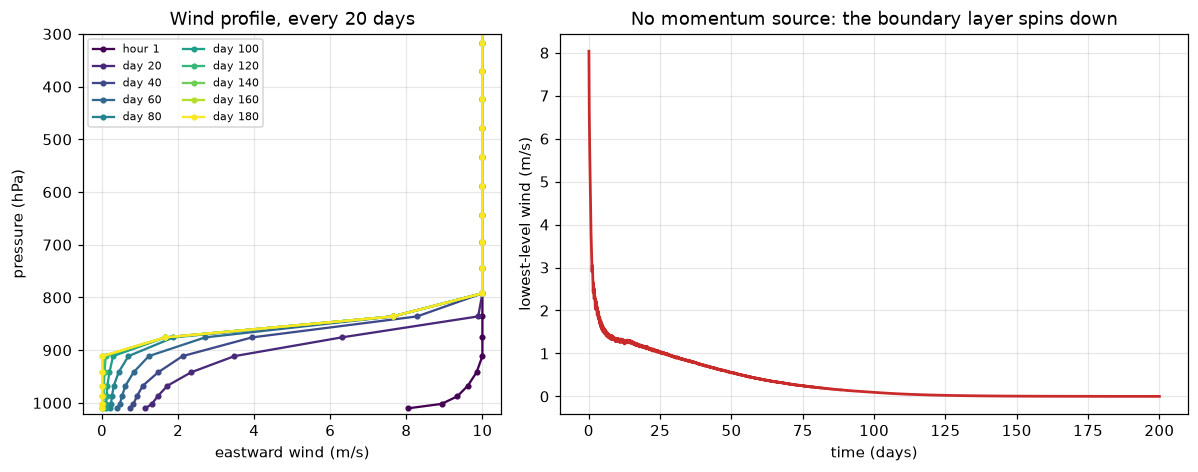
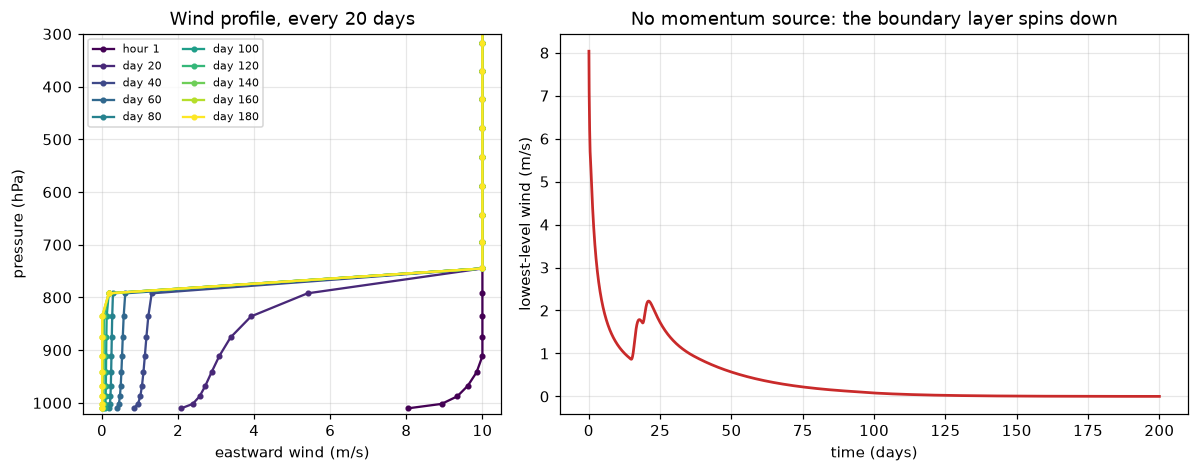
docs(tour): page 8 re-measured with the dry-static-energy boundary layer
The boundary layer now holds a steady 2.5 km depth, so the flux no longer
saw-tooths. Jump 15.15 -> 5.95 K, flux 30.3 W/m^2 at 5 m/s; knob table,
spin-down and exercise numbers re-measured.

Claude-Session: https://claude.ai/code/session_01MZXmxdJ9JP4hWH85RXmnPw

diff --git a/tests/test_modelling_tour.py b/tests/test_modelling_tour.py
@@ -1297,9 +1297,9 @@ PAGE8_DT = dict(hours=1)
 # means: 20.0, 34.7, 51.2 W/m^2 and 9.33, 7.47, 6.16 K. The thresholds allow
 # ~25% -- they check the monotone response, not a fit.
 PAGE8_WIND_CASES = [
-    (2.0, 15.0, 10.0),
-    (5.0, 28.0, 8.5),
-    (10.0, 42.0, 7.0),
+    (2.0, 13.5, 9.5),
+    (5.0, 23.0, 7.5),
+    (10.0, 31.0, 5.5),
 ]
 
 
@@ -1405,7 +1405,7 @@ def _page8_restart(page8_equilibrium, wind=PAGE8_WIND, z0=PAGE8_Z0,
 @pytest.mark.slow
 def test_page8_turbulence_shrinks_the_surface_air_discontinuity(
         page8_equilibrium):
-    """Page 8's reveal. Measured 15.15 K -> 7.47 K (30-day mean) at z0=1e-3,
+    """Page 8's reveal. Measured 15.15 K -> 5.95 K (30-day mean) at z0=1e-3,
     5 m/s.
 
     Thresholds sit either side of the measurement with room, so this checks
@@ -1531,7 +1531,7 @@ def test_page8_relaxation_lets_the_drag_win_near_the_ground(
         page8_equilibrium):
     """The comparison that distinguishes a forcing from an assignment.
 
-    Relaxing toward 5 m/s leaves the lowest level near 2.9, because the
+    Relaxing toward 5 m/s leaves the lowest level near 3.4, because the
     surface drag is still acting and the relaxation only pulls. Assigning the
     wind back every step -- the idiom in examples/column_code_with_slab.py --
     pins it at exactly 5.0 and so overrides the drag at the one level where
